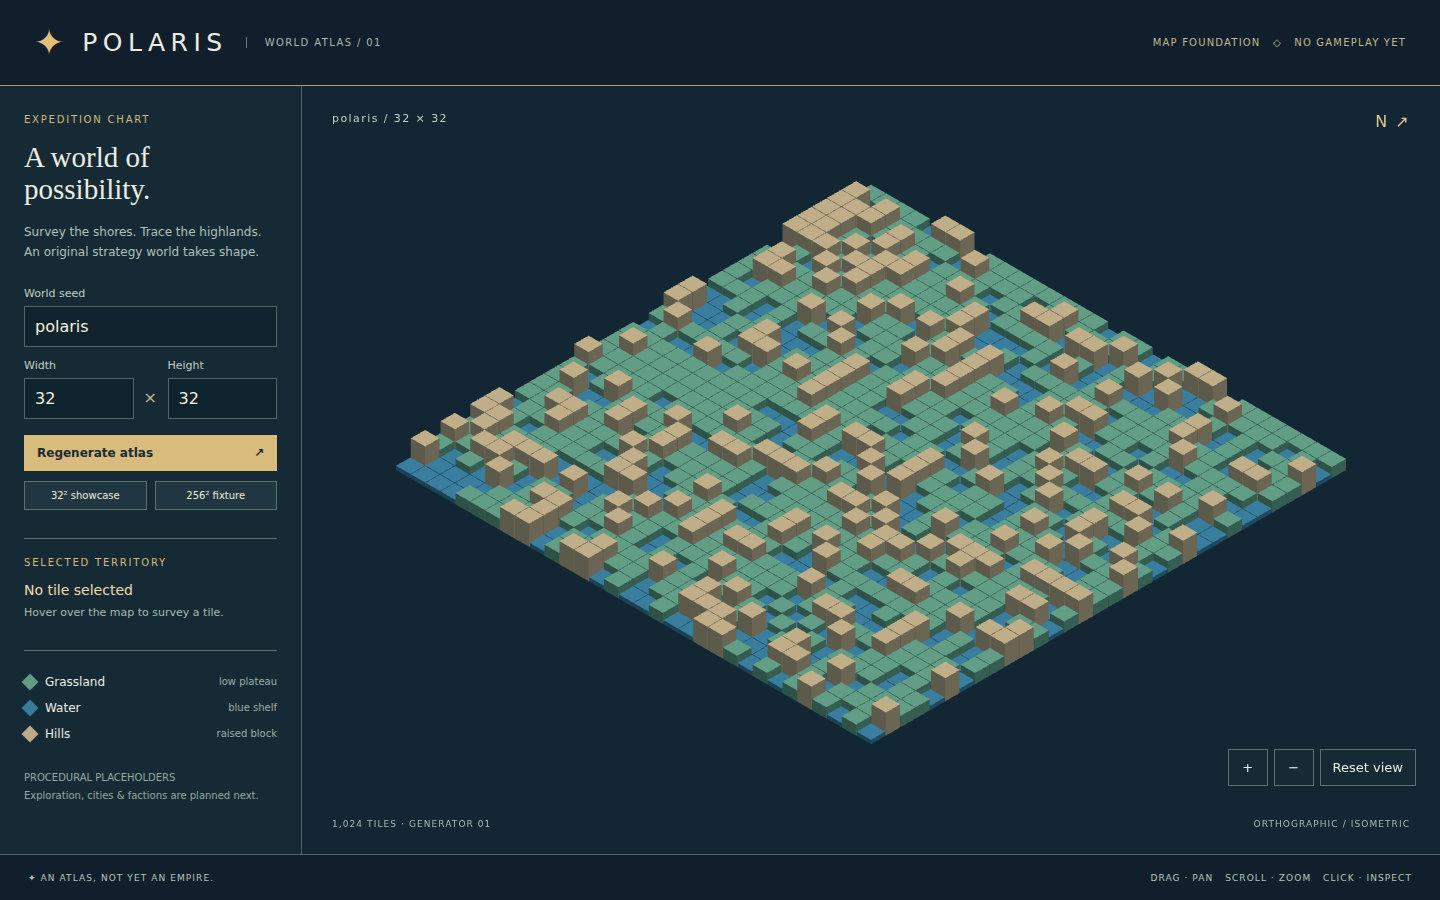
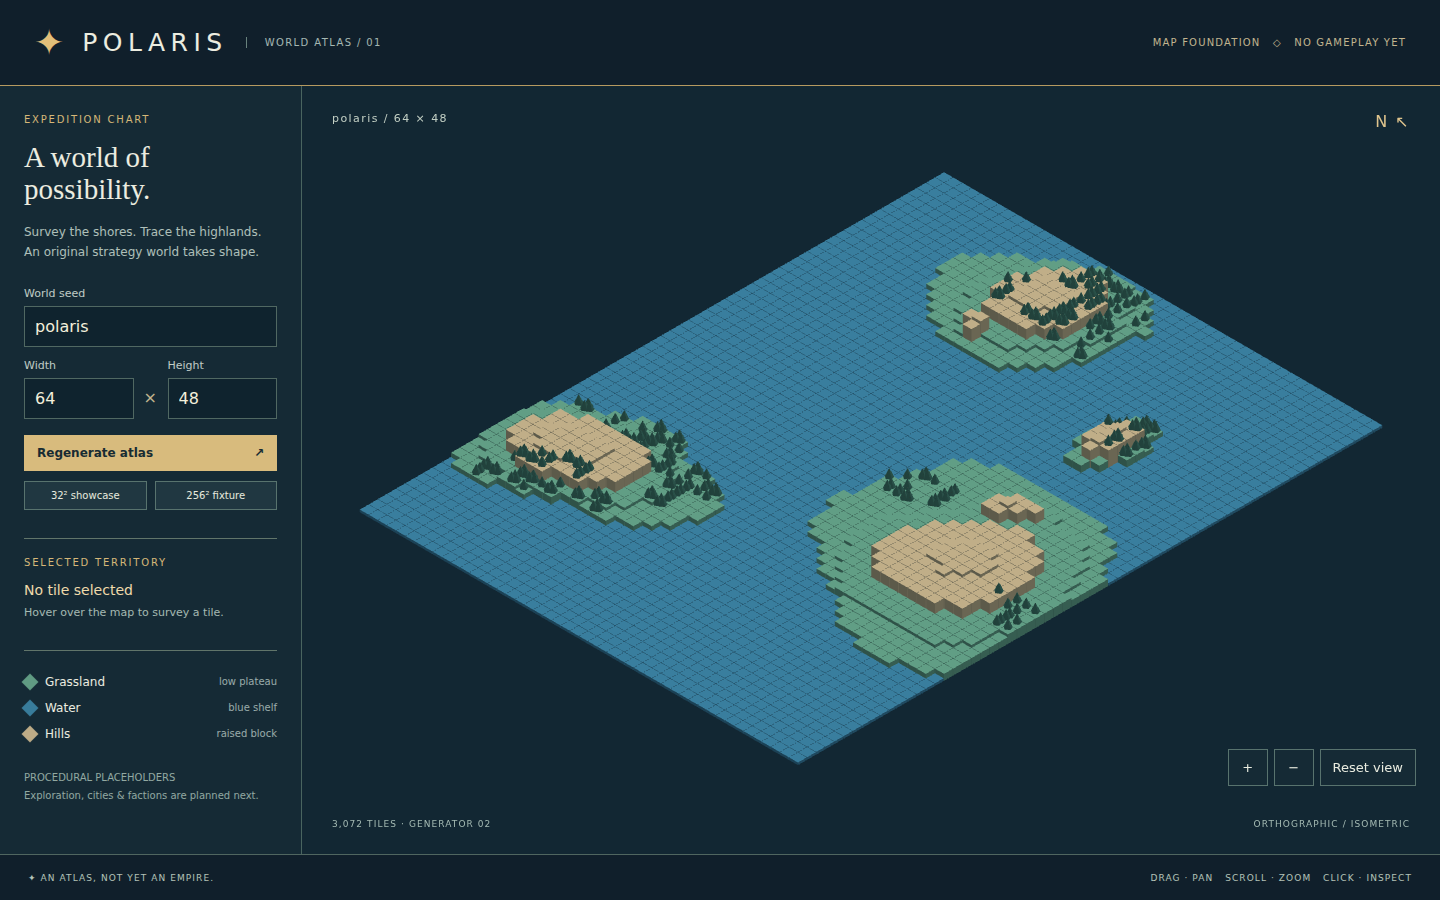
Update generator v2 atlas evidence and fixtures

Changed region(s): [[0.25, 0.1867, 0.9688, 0.8711], [0.125, 0.4356, 0.1562, 0.4667]]

diff --git a/tests/atlas.spec.ts b/tests/atlas.spec.ts
@@ -106,8 +106,9 @@ test('fixture stays chunk-bounded and supports pan, zoom, picking, regeneration'
   await page.goto('/?diagnostics=1&width=256&height=256')
   await expect(page.locator('#map-status')).toContainText('65,536 TILES')
   await selectTile(page, 256)
+  const initial = await stats(page)
   expect(await stats(page)).toMatchObject({
-    batches: 768, meshes: 770, geometries: 770, materials: 7, instances: 65_536, instanceBufferBytes: 4_194_304,
+    batches: 335, meshes: 339, geometries: 339, materials: 7, instances: 65_536, instanceBufferBytes: 4_194_304,
   })
   await page.getByRole('button', { name: 'Zoom in', exact: true }).click()
   await page.locator('canvas').focus()
@@ -115,7 +116,8 @@ test('fixture stays chunk-bounded and supports pan, zoom, picking, regeneration'
   await selectTile(page, 256)
   for (let i = 1; i <= 3; i++) {
     await page.getByRole('button', { name: 'Regenerate atlas' }).click()
-    expect(await stats(page)).toMatchObject({ batches: 768, meshes: 770, geometries: 770, materials: 7, disposedBatches: 768 * i })
+    expect(await stats(page)).toMatchObject({ batches: initial.batches, meshes: initial.meshes,
+      geometries: initial.geometries, materials: 7, disposedBatches: initial.batches! * i })
   }
   await page.getByRole('button', { name: '32² showcase' }).click()
   expect(await stats(page)).toMatchObject({ batches: 12, meshes: 16, geometries: 16 })

diff --git a/README.md b/README.md
@@ -2,7 +2,7 @@
 
 An original voxel-isometric strategy **foundation**, not a playable 4X game. This PR implements only a deterministic map, chunked WebGL 2 rendering, an orthographic camera, picking, and a small Art Deco HUD.
 
-![Polaris procedural showcase, captured from the running app](docs/showcase.png)
+![Polaris generator 2 showcase, seed polaris, 64 × 48, captured from the production app](docs/showcase.png)
 
 ## Plan and visual direction
 
@@ -74,11 +74,11 @@ Generator 2 builds broad, irregular landforms before adding local coast variatio
 
 ## Validation and benchmark evidence
 
-The automated suite checks complete-map deterministic fingerprints for four seeds, continent separation and stepped elevation, dimensions/bounds and invalid inputs, real rendering/picking after pan/zoom/resize, HUD isolation, regeneration, and unavailable WebGL 2. Structural browser checks prove **16 meshes / 7 materials / 16 geometries** for 32² and **772 / 7 / 772** for 256²: one source per populated 16 × 16 chunk/terrain batch, two map-wide tree meshes and two markers, not one object per tile.
+The automated suite checks complete-map deterministic fingerprints for four seeds, continent separation and stepped elevation, dimensions/bounds and invalid inputs, real rendering/picking after pan/zoom/resize, HUD isolation, regeneration, and unavailable WebGL 2. Structural browser checks prove **16 meshes / 7 materials / 16 geometries** for 32² and **339 / 7 / 339** for the `polaris` 256² fixture (335 populated chunk/terrain batches): two map-wide tree meshes and two markers, not one object per tile.
 
-Three successive regenerations of **each** size retain those counts. The disposal counter confirms 36 showcase or 2,304 stress source meshes disposed, respectively. Matrix buffers are 64 KiB / 4 MiB. Materials persist across regenerations; full teardown disposes scene/engine, buffers, instrumentation, and listeners. Stable resource counts demonstrate bounded scene resources, **not** a proof of absence of every browser/driver memory leak.
+Three successive regenerations of **each** size retain those counts. The disposal counter confirms 36 showcase or 1,005 stress source meshes disposed, respectively. Matrix buffers are 64 KiB / 4 MiB. Materials persist across regenerations; full teardown disposes scene/engine, buffers, instrumentation, and listeners. Stable resource counts demonstrate bounded scene resources, **not** a proof of absence of every browser/driver memory leak.
 
-Local validation: clean `npm ci`, type-check, lint, **19 unit tests**, **5 browser tests**, and production build pass. GitHub's initial validation runs reported `action_required` with zero jobs; repository approval is required before hosted CI evidence is available. Local results are not presented as a completed hosted CI run.
+Local validation: clean `npm ci`, type-check, lint, **20 unit tests**, **5 browser tests**, and production build pass. GitHub's initial validation runs reported `action_required` with zero jobs; repository approval is required before hosted CI evidence is available. Local results are not presented as a completed hosted CI run.
 
 Measured results and reproduction details are recorded below. Architecture budgets are provisional targets, not acceptance claims for arbitrary hardware.
 
